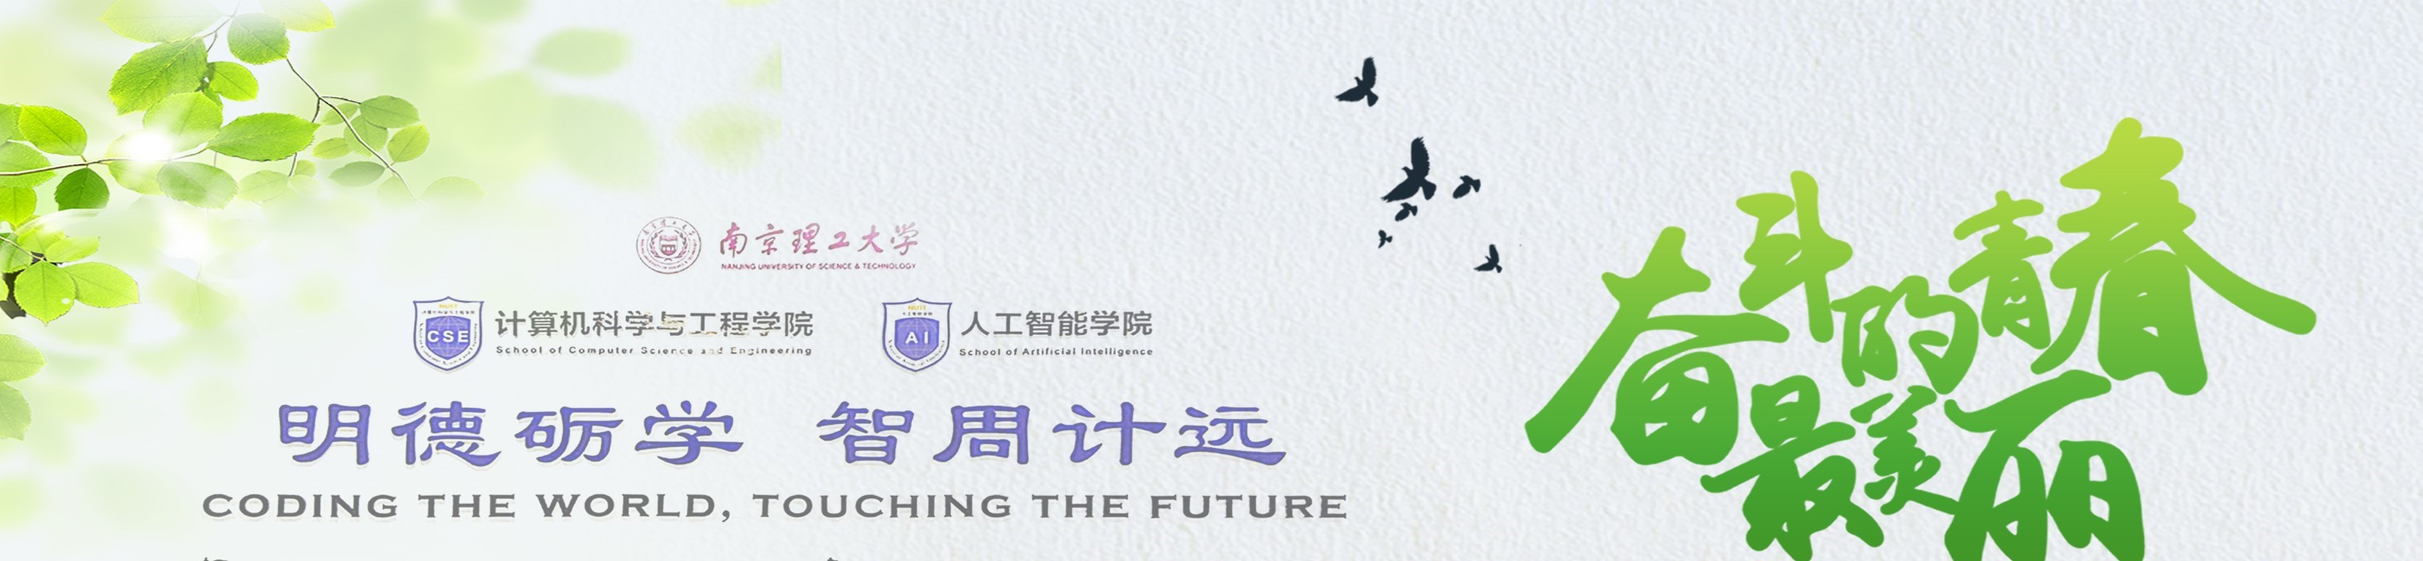
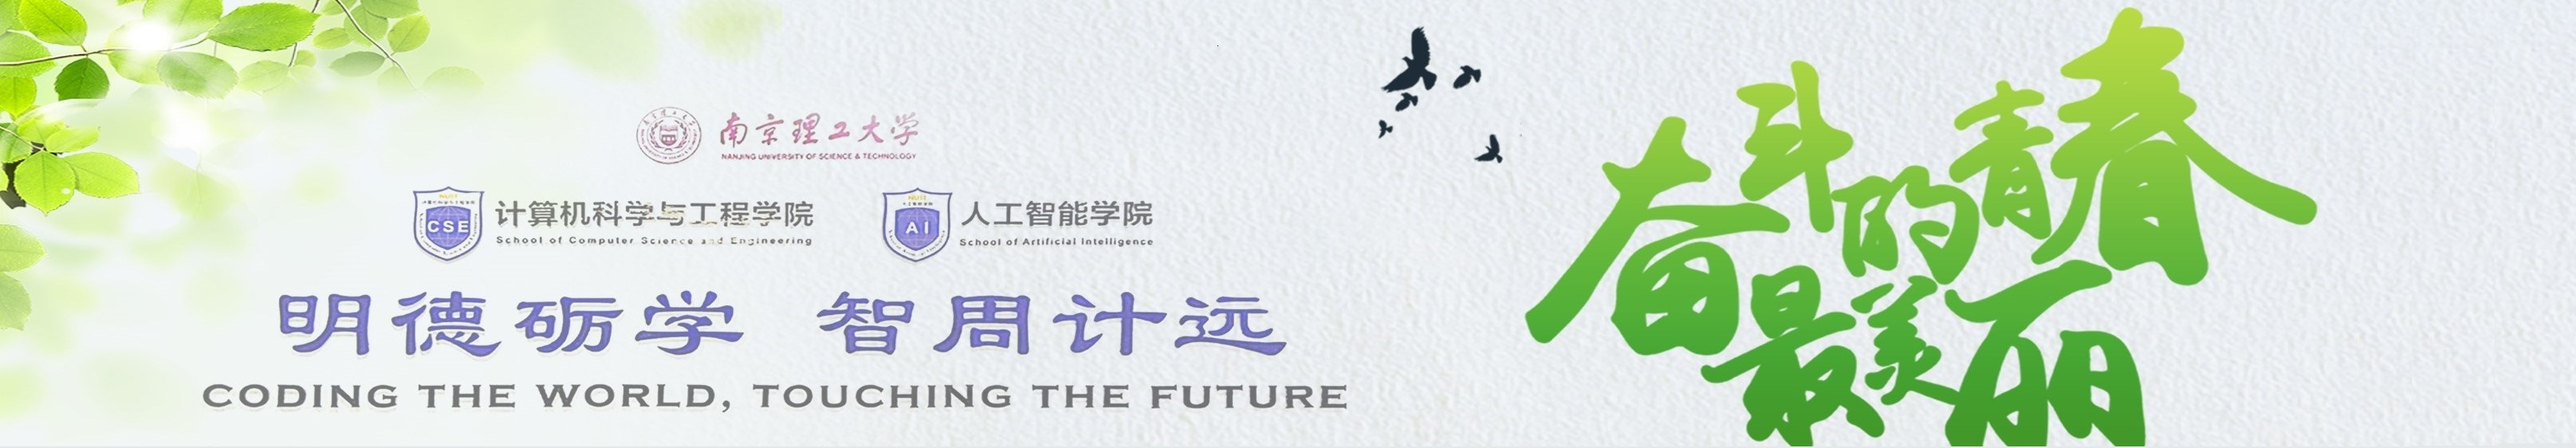
1

diff --git a/_includes/header.html b/_includes/header.html
@@ -46,7 +46,7 @@
 
     </ul>
   </div>
-<div class="entry-header" style="background: #e8e8e8 ;background:url(https://FakeRoy.github.io/images/test.jpg) ; background-size: 100%  100%"   >
+<div class="entry-header" style="background: #e8e8e8 ;background:url(https://FakeRoy.github.io/images/test2.jpg) ; background-size: 100%  100%"   >
   <div class="header-title">
     <div class="header-title-wrap" style="width: 180px;height: 90px" >
       <h1>{{ page.title }}</h1>
